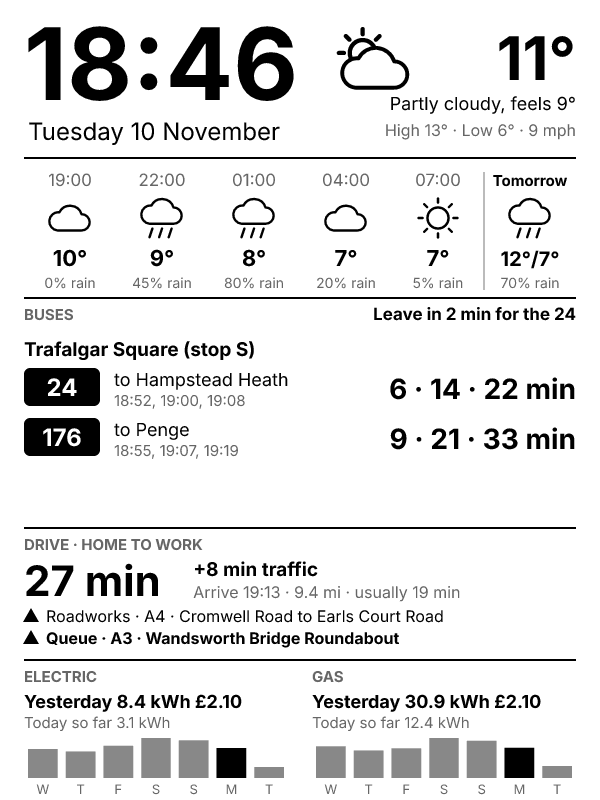
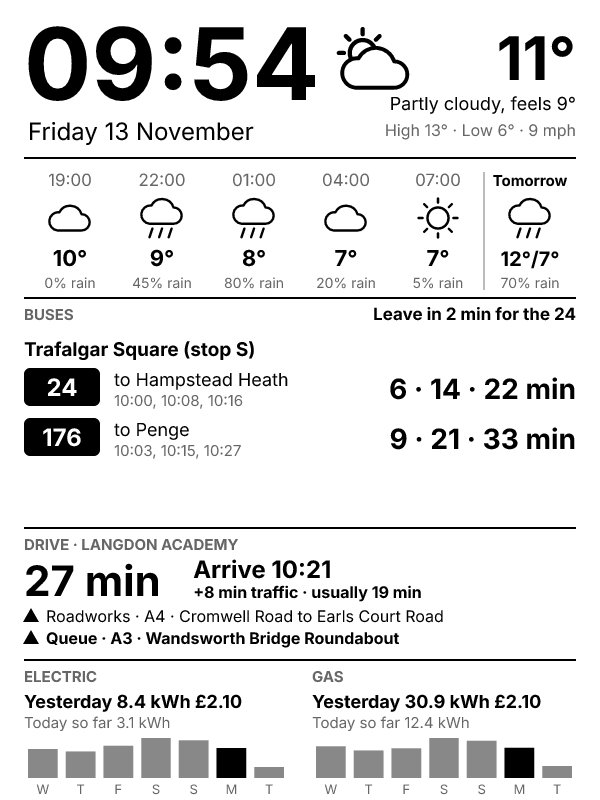
Kindle dashboard: timed drives with postcodes, and a clearer ETA
Journeys are now DRIVE_1, DRIVE_2, ... written as
'Mon-Fri 06:00-07:30 | Langdon Academy | E6 2PS'. Each shows only during its
days and hours (and only then uses TomTom), otherwise the space goes to the
buses. Places can be UK postcodes, looked up on postcodes.io. The drive
section now leads with the arrival time. DRIVE_TO still works.

Also fixes the preview tool ignoring settings with digits in the name.

Claude-Session: https://claude.ai/code/session_011AEdhUZfsUTUjBiKEuZ9w4

diff --git a/kindle/src/driving.js b/kindle/src/driving.js
@@ -1,6 +1,13 @@
 // Drive time with live traffic, plus incidents along the route, from TomTom.
-// Needs a free TomTom developer key (TOMTOM_KEY), DRIVE_FROM and DRIVE_TO.
-import { getJson, parseLatLon } from "./util.js";
+//
+// DRIVE_FROM is where you start: a UK postcode (e.g. "E6 2PS") or "latitude,longitude".
+// Each journey is a setting DRIVE_1, DRIVE_2, ... (up to 9), written as
+//   "<days> <from time>-<to time> | <name> | <destination>"
+// e.g. "Mon-Fri 06:00-07:30 | Langdon Academy | E6 2PS". A journey only shows
+// (and only uses TomTom lookups) during its days and hours. Days can be like
+// "Mon-Fri", "Sat,Sun", "Weekdays", "Weekends" or "Daily".
+// The older DRIVE_TO (+ DRIVE_LABEL) setting still works and shows all the time.
+import { getJson, parseLatLon, tz } from "./util.js";
 
 const CATEGORY = {
   1: "Accident", 2: "Fog", 3: "Hazard", 4: "Rain", 5: "Ice", 6: "Queue",
@@ -8,10 +15,83 @@ const CATEGORY = {
   11: "Flooding", 14: "Broken down vehicle",
 };
 
-export async function getDrive(env) {
+const DAYS = ["sun", "mon", "tue", "wed", "thu", "fri", "sat"];
+
+function parseDays(text) {
+  const t = text.toLowerCase();
+  if (t === "daily" || t === "everyday" || t === "all") return new Set([0, 1, 2, 3, 4, 5, 6]);
+  if (t === "weekdays") return new Set([1, 2, 3, 4, 5]);
+  if (t === "weekends") return new Set([0, 6]);
+  const out = new Set();
+  for (const part of t.split(",")) {
+    const [a, b] = part.split("-").map(d => DAYS.indexOf(d.trim().slice(0, 3)));
+    if (a < 0 || (b !== undefined && b < 0)) throw new Error(`Can't read the days "${text}"`);
+    if (b === undefined) { out.add(a); continue; }
+    for (let d = a; ; d = (d + 1) % 7) { out.add(d); if (d === b) break; }
+  }
+  return out;
+}
+
+const toMinutes = hhmm => {
+  const m = hhmm.trim().match(/^(\d{1,2})[:.](\d{2})$/);
+  if (!m) throw new Error(`Can't read the time "${hhmm}"`);
+  return +m[1] * 60 + +m[2];
+};
+
+export function parseJourney(text, name) {
+  const [when, label, to] = String(text).split("|").map(s => s.trim());
+  if (!when || !to) throw new Error(`${name} should look like "Mon-Fri 06:00-07:30 | School | E6 2PS"`);
+  const m = when.match(/^(.*?)\s+(\S+)\s*-\s*(\S+)$/);
+  if (!m) throw new Error(`${name}: can't read "${when}"`);
+  return { days: parseDays(m[1].replace(/\s+/g, "")), start: toMinutes(m[2]), end: toMinutes(m[3]), label, to };
+}
+
+// The journey to show right now, or null if none is due.
+export function activeJourney(env, now) {
+  const zone = tz(env);
+  const parts = new Intl.DateTimeFormat("en-GB", {
+    timeZone: zone, weekday: "short", hour: "2-digit", minute: "2-digit", hourCycle: "h23",
+  }).formatToParts(now);
+  const get = t => parts.find(p => p.type === t).value;
+  const day = DAYS.indexOf(get("weekday").toLowerCase().slice(0, 3));
+  const mins = +get("hour") * 60 + +get("minute");
+  for (let i = 1; i <= 9; i++) {
+    const text = env[`DRIVE_${i}`];
+    if (!text) continue;
+    const j = parseJourney(text, `DRIVE_${i}`);
+    if (j.days.has(day) && mins >= j.start && mins <= j.end) return j;
+  }
+  if (env.DRIVE_TO) return { label: env.DRIVE_LABEL || "Drive", to: env.DRIVE_TO };
+  return null;
+}
+
+export const hasDrives = env =>
+  !!(env.TOMTOM_KEY && env.DRIVE_FROM &&
+    (env.DRIVE_TO || [1, 2, 3, 4, 5, 6, 7, 8, 9].some(i => env[`DRIVE_${i}`])));
+
+// "latitude,longitude" or a UK postcode (looked up on postcodes.io, then remembered).
+const places = new Map();
+async function resolvePlace(text, name) {
+  if (/^\s*-?\d+(\.\d+)?\s*,\s*-?\d+(\.\d+)?\s*$/.test(text)) return parseLatLon(text, name);
+  const pc = String(text || "").replace(/\s+/g, "").toUpperCase();
+  if (!/^[A-Z]{1,2}\d[A-Z\d]?\d[A-Z]{2}$/.test(pc)) {
+    throw new Error(`${name} should be a postcode or latitude,longitude`);
+  }
+  if (!places.has(pc)) {
+    const r = await getJson(`https://api.postcodes.io/postcodes/${pc}`);
+    places.set(pc, { lat: r.result.latitude, lon: r.result.longitude });
+  }
+  return places.get(pc);
+}
+
+export async function getDrive(env, now = new Date()) {
   if (!env.TOMTOM_KEY) throw new Error("TOMTOM_KEY is not set");
-  const from = parseLatLon(env.DRIVE_FROM, "DRIVE_FROM");
-  const to = parseLatLon(env.DRIVE_TO, "DRIVE_TO");
+  const journey = activeJourney(env, now);
+  if (!journey) return null; // Nothing due now: the section is left out.
+  const [from, to] = await Promise.all([
+    resolvePlace(env.DRIVE_FROM, "DRIVE_FROM"),
+    resolvePlace(journey.to, journey.label),
+  ]);
   const key = encodeURIComponent(env.TOMTOM_KEY);
 
   const route = await getJson(
@@ -29,7 +109,7 @@ export async function getDrive(env) {
   }
 
   return {
-    label: env.DRIVE_LABEL || "Drive",
+    label: journey.label,
     minutes: Math.round(s.travelTimeInSeconds / 60),
     usualMinutes: Math.round((s.noTrafficTravelTimeInSeconds ?? s.travelTimeInSeconds) / 60),
     delayMinutes: Math.round((s.trafficDelayInSeconds || 0) / 60),

diff --git a/kindle/src/dashboard.js b/kindle/src/dashboard.js
@@ -2,7 +2,7 @@
 // (the SVG -> pixels renderer) and the font files.
 import { getWeather } from "./weather.js";
 import { getBuses } from "./buses.js";
-import { getDrive } from "./driving.js";
+import { getDrive, hasDrives } from "./driving.js";
 import { getEnergy } from "./energy.js";
 import { renderSvg, WIDTH, HEIGHT } from "./render.js";
 import { greyPng } from "./png.js";
@@ -16,10 +16,12 @@ export async function buildSvg(env, now = new Date()) {
   const [weather, bus, car, power] = await Promise.all([
     settle(true, () => getWeather(env)),
     settle(true, () => getBuses(env, now)),
-    settle(!!(env.TOMTOM_KEY && env.DRIVE_FROM && env.DRIVE_TO), () => getDrive(env)),
+    settle(hasDrives(env), () => getDrive(env, now)),
     settle(!!(env.GLOW_USERNAME && env.GLOW_PASSWORD), () => getEnergy(env, now)),
   ]);
-  return renderSvg({ now, zone: tz(env), weather, bus, car, power });
+  // A drive outside its days and hours is left out, like one that isn't set up.
+  const drive = car.ok && car.value === null ? { ok: false, missing: true } : car;
+  return renderSvg({ now, zone: tz(env), weather, bus, car: drive, power });
 }
 
 export async function svgToPng(svg, Resvg, fonts) {

diff --git a/kindle/tools/preview.js b/kindle/tools/preview.js
@@ -13,7 +13,7 @@ const here = p => fileURLToPath(new URL(p, import.meta.url));
 const env = {};
 if (existsSync(here("../.env"))) {
   for (const l of readFileSync(here("../.env"), "utf8").split("\n")) {
-    const m = l.match(/^\s*([A-Z_]+)\s*=\s*"?(.*?)"?\s*$/);
+    const m = l.match(/^\s*([A-Z0-9_]+)\s*=\s*"?(.*?)"?\s*$/);
     if (m) env[m[1]] = m[2];
   }
 }
@@ -45,7 +45,7 @@ function demoSvg() {
       { name: "Strand", letter: "", routes: [bus("9", "Aldwych", [0, 12])] },
     ] },
     car: { ok: true, value: {
-      label: "Home to work", minutes: 27, usualMinutes: 19, delayMinutes: 8, miles: 9.4, arrival: at(27),
+      label: "Langdon Academy", minutes: 27, usualMinutes: 19, delayMinutes: 8, miles: 9.4, arrival: at(27),
       incidents: [
         { kind: "Roadworks", road: "A4", where: "Cromwell Road to Earls Court Road", severity: 2 },
         { kind: "Queue", road: "A3", where: "Wandsworth Bridge Roundabout", severity: 3 },

diff --git a/kindle/src/render.js b/kindle/src/render.js
@@ -174,10 +174,11 @@ function drive(result, zone, top) {
   y += 46;
   out += text(M, y, `${d.minutes} min`, { size: 42, bold: true });
   const x = M + textWidth(`${d.minutes} min`, 42, true) + 18;
+  // The ETA if you leave now, then how traffic compares with usual.
+  out += text(x, y - 18, `Arrive ${clock(d.arrival, zone)}`, { size: 24, bold: true });
   const delay = d.delayMinutes > 0 ? `+${d.delayMinutes} min traffic` : "No traffic delay";
-  out += text(x, y - 20, delay, { size: 19, bold: d.delayMinutes >= 5 });
-  out += text(x, y + 2, `Arrive ${clock(d.arrival, zone)} · ${d.miles.toFixed(1)} mi · usually ${d.usualMinutes} min`,
-    { size: 16, fill: GREY, max: RIGHT - x });
+  out += text(x, y + 2, `${delay} · usually ${d.usualMinutes} min`,
+    { size: 16, fill: d.delayMinutes >= 5 ? "#000" : GREY, bold: d.delayMinutes >= 5, max: RIGHT - x });
 
   y += 4;
   if (d.incidents === null) {

diff --git a/kindle/README.md b/kindle/README.md
@@ -29,9 +29,10 @@ Any section you don't set up is left out, and the buses get the space.
 | `HOME_LATLON` | Where to get the weather for, as `latitude,longitude` | In Google Maps, press and hold on your home; the numbers at the top are it. E.g. `51.54,0.13` |
 | `BUS_STOPS` | Your stops, separated by `;`. Add `:` and routes to show only those routes. | Find the stop on tfl.gov.uk; its ID is in the page address, e.g. `tfl.gov.uk/bus/stop/490000077E/...`. Example: `490000077E:5,145; 490005183E` |
 | `BUS_WALK_MINUTES` | Optional. How long it takes you to walk to the stop. Shows "Leave in N min". | e.g. `4` |
-| `TOMTOM_KEY` | Drive time and traffic. Free: 2,500 lookups a day (this uses about 1,100). | Sign up at developer.tomtom.com, then copy the key from your dashboard there. |
-| `DRIVE_FROM`, `DRIVE_TO` | The journey, as `latitude,longitude` each | Same Google Maps trick as above. |
-| `DRIVE_LABEL` | Optional name for the journey | e.g. `Home to work` |
+| `TOMTOM_KEY` | Drive time and traffic. Free: 2,500 lookups a day. Each update in a journey's time window uses 2. | Sign up at developer.tomtom.com, then copy the key from your dashboard there. |
+| `DRIVE_FROM` | Where your drives start | A UK postcode, e.g. `E6 2PS`, or `latitude,longitude` |
+| `DRIVE_1`, `DRIVE_2`, … | Each journey and when to show it: `days times \| name \| destination`. It shows (and uses TomTom) only during those times. | e.g. `Mon-Fri 06:00-07:30 \| Langdon Academy \| E6 2PS` and `Sat-Sun 18:00-20:00 \| Asda Beckton \| E6 5JP`. Days can also be `Weekdays`, `Weekends`, `Daily` or `Sat,Sun`. |
+| `DRIVE_TO`, `DRIVE_LABEL` | Optional: one journey shown all day instead | Postcode or `latitude,longitude`, and a name |
 | `GLOW_USERNAME`, `GLOW_PASSWORD` | Your smart meter, via the free **Bright** app (works with any UK supplier) | Install Bright (by Hildebrand), sign up and link your meter. Use that email and password. |
 | `TFL_APP_KEY` | Optional. Only needed if TfL starts refusing requests. | api-portal.tfl.gov.uk |
 | `TIMEZONE` | Optional. Defaults to `Europe/London`. | |
